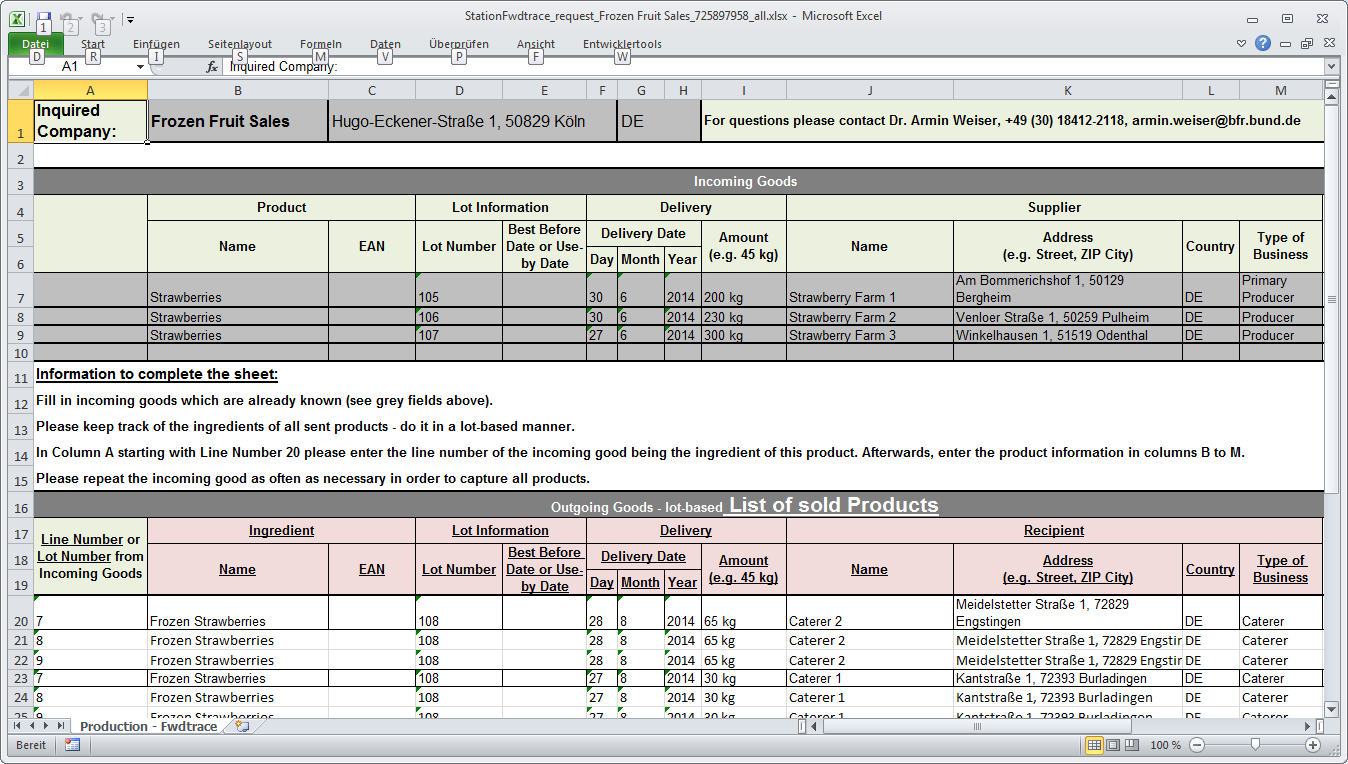
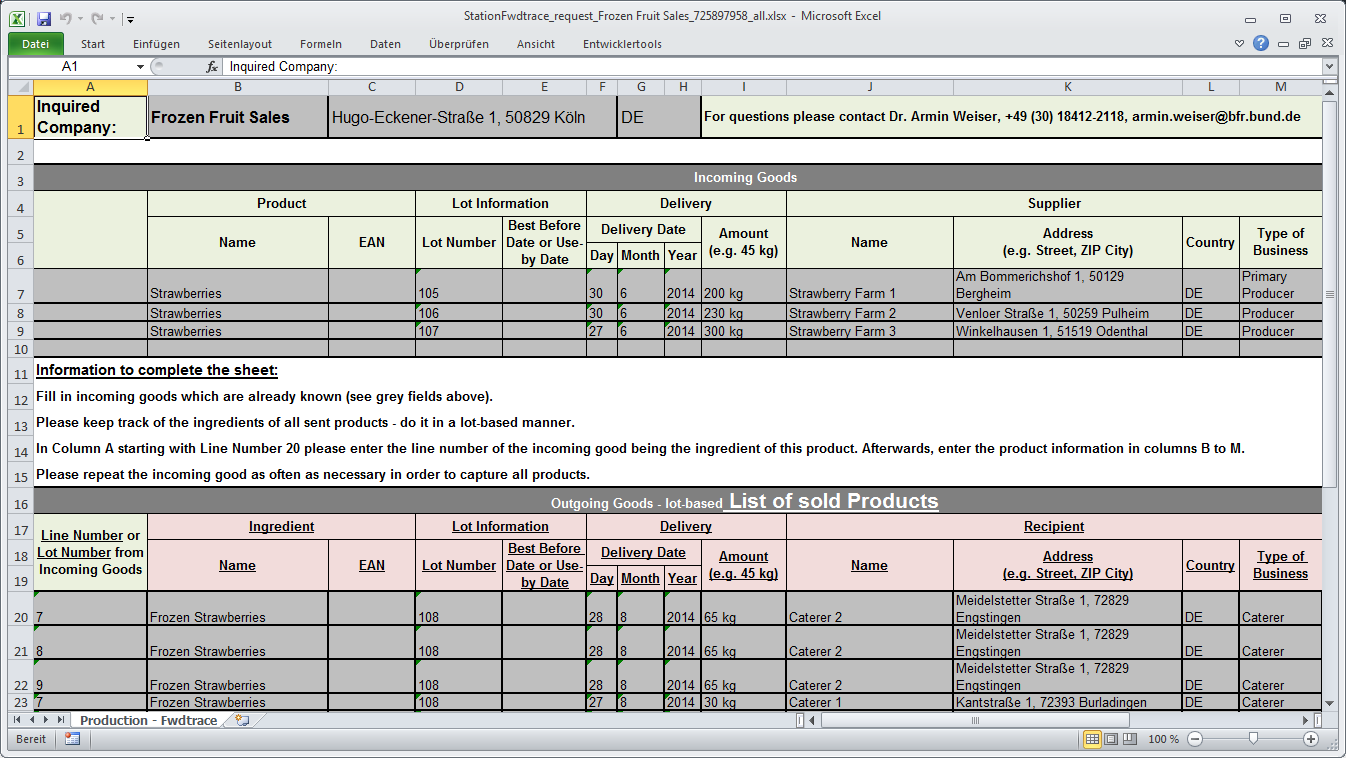
data collection tutorial updated

diff --git a/GitHubPages/documents/foodchainlab_datacollecting_2/datacollecting_2.tex b/GitHubPages/documents/foodchainlab_datacollecting_2/datacollecting_2.tex
@@ -203,12 +203,13 @@
 \subsection{17}
 \begin{frame}
 	\begin{center}
-  		\includegraphics[height=0.55\textheight]{17.png}
+  		\includegraphics[height=0.5\textheight]{17.png}
 	\end{center}
 	\begin{itemize}
 		\item Scroll down to the section where you can enter the outgoing deliveries.
 		\item There was one delivery of "Frozen Strawberries" of lot "108" to "Caterer 3".
-		\item Since lot "108" has three ingredients, we have to enter the delivery three times as shown on the screenshot (red box).
+		\item Since lot "108" already exists, we do not have to define any ingredients and can leave the first cell empty.
+		\item Enter the delivery as shown on the screenshot (red box).
 		\item After entering the data save and close the document.
 	\end{itemize}
 \end{frame}
